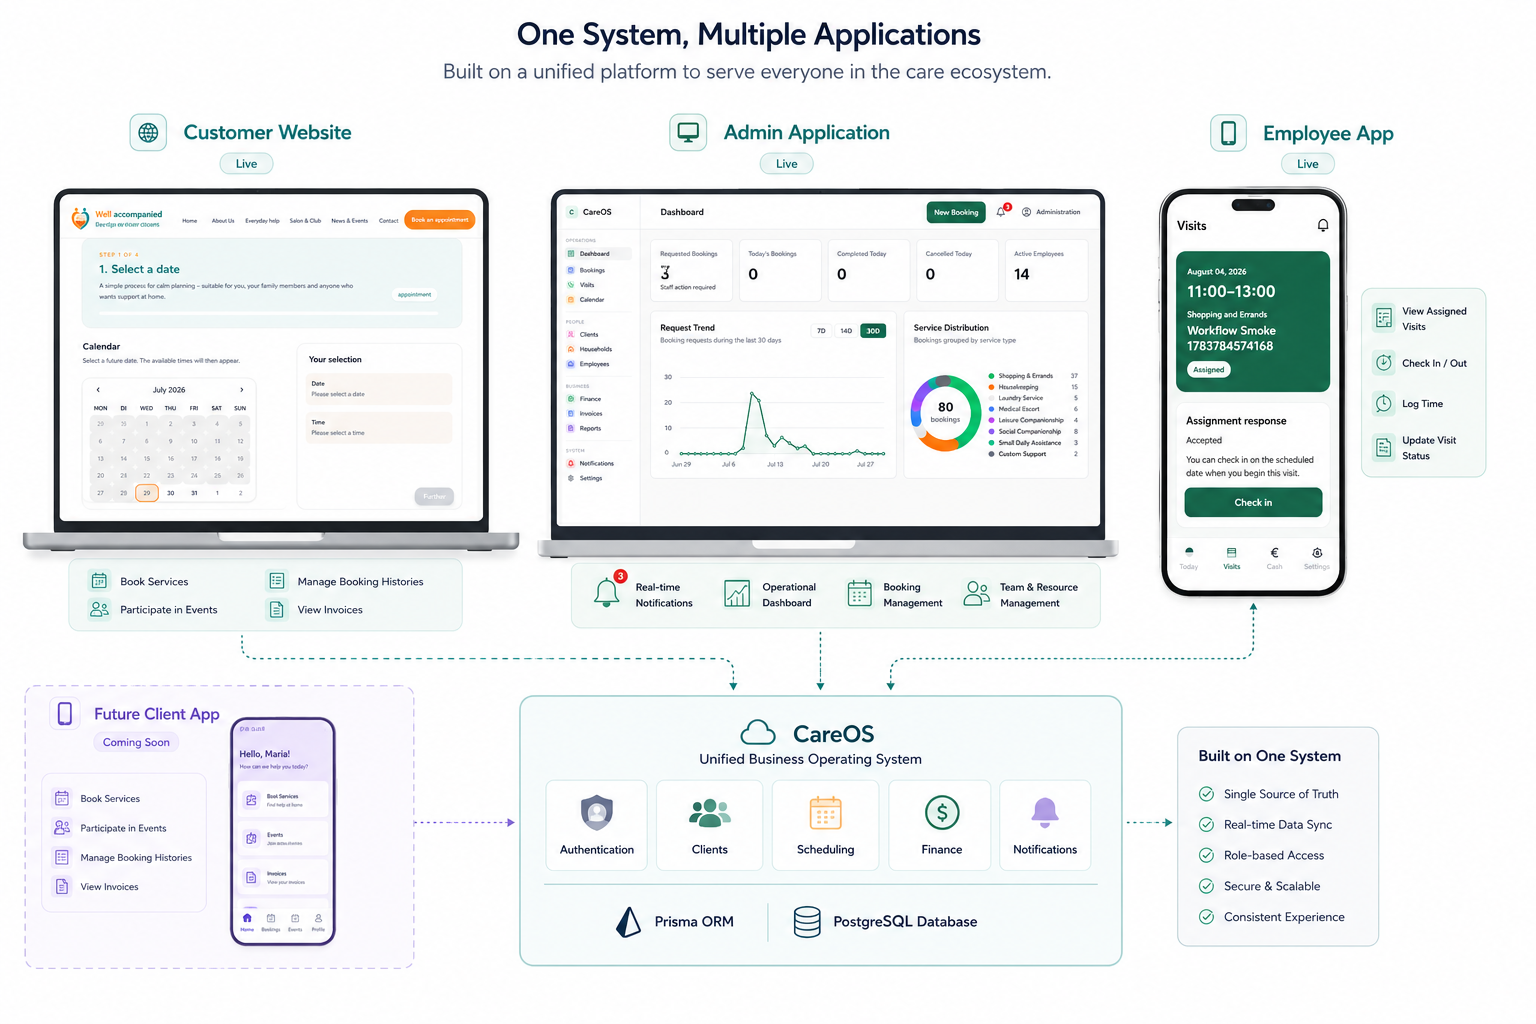
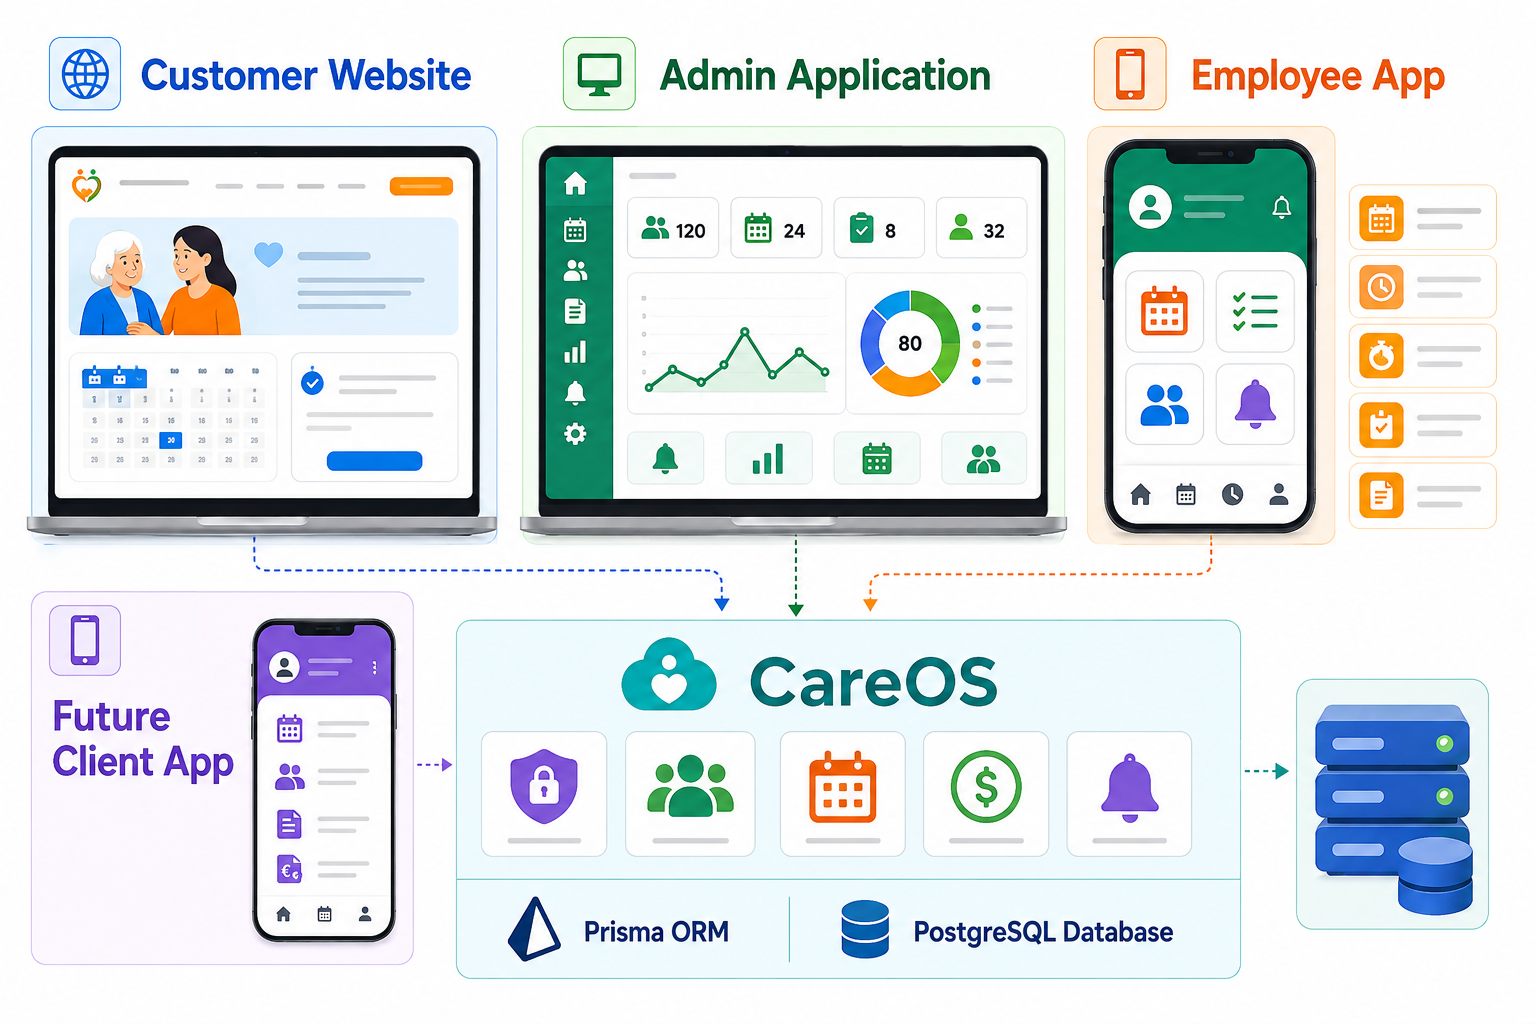
Refresh CareOS/Engineering slideshow diagrams, fix picture/text overflow
- Replace Problem, Analysis, Workflow, Architecture, Database, and
  Applications slide images in the CareOS deck with updated diagrams
- Replace Introduction, Model, Persistence, Flow, Services, and API
  slide images in the Engineering deck, updating alt text to match
  each diagram's actual content
- Fix the picture-overlapping-text bug generally instead of only on
  the Introduction slide: cap every intro-slide's grid row to the
  stage height and let the copy column scroll internally, so this
  can't recur on short viewports regardless of width or which slide

Changed region(s): [[0.0, 0.0, 0.9688, 0.9688]]

diff --git a/src/components/work/EngineeringSlideshow.tsx b/src/components/work/EngineeringSlideshow.tsx
@@ -113,7 +113,7 @@ const slides: readonly Slide[] = [
 function BackendVisual() {
   return (
     <img
-      alt="Backend layers: API Layer (REST API, routes, controllers), Application Layer (business services, transactions, business rules), Persistence Layer (Prisma ORM, query execution), and PostgreSQL (relational model, indexes) — with a Cross-Cutting Concerns ribbon (Authentication, Authorization, Validation, Tenant Isolation) running alongside the API, Application, and Persistence layers"
+      alt="Backend layers: API Layer (REST API, routes, controllers), Application Layer (business services, transactions, business rules), Persistence Layer (Prisma ORM, query execution), and PostgreSQL (relational model, indexes) — with a Cross-Cutting Concerns panel (Authentication, Authorization, Validation, Tenant Isolation) alongside the pipeline"
       className="careos-slide-architecture-image"
       src="/work/image25.png"
     />
@@ -123,7 +123,7 @@ function BackendVisual() {
 function DomainsVisual() {
   return (
     <img
-      alt="Conceptual capability areas, an analytical view of the business: Identity (User, Role, UserRole), Customer (Clients, Households, Companies, PreferredEmployee), Operations (Bookings, Assignments, Visits, BookingItem), Workforce (Employees, Availability, EmployeeSkill, TimeEntry), Finance (Invoices, Payments, PayrollPeriod, Receipts), Reporting (reads from every area — no dedicated table), and Platform Services (Documents, Notifications, Audit Logs, Sequences). Summary: 7 conceptual areas organise the business by capability, 37 Prisma models make up the flat data model in schema.prisma, and 17 enums as native PostgreSQL enum types"
+      alt="Conceptual capability areas, an analytical view of the business: Identity (User, Role), Customer (Clients, Households), Operations (Bookings, Assignments), Workforce (Employees, Availability), Finance (Invoices, Payments), Reporting (reads from every area), and Platform Services (Documents, Notifications). Summary: 7 conceptual areas organise the business by capability, 37 Prisma models make up the flat data model in schema.prisma, 17 enums as native PostgreSQL enum types, and 25 migrations"
       className="careos-slide-architecture-image"
       src="/work/model.png"
     />
@@ -183,7 +183,7 @@ function RelationshipsVisual() {
 function ServicesVisual() {
   return (
     <img
-      alt="21 service modules implementing core business logic, across 24 TypeScript files (including 3 utility helper modules), making up about 75% of the codebase, shared by all APIs, with centralised business rules and transactions. Modules grouped by area: Authentication (auth.service.ts, credential.service.ts, me.service.ts, admin-auth.service.ts, admin-bootstrap.service.ts), Customer (client.service.ts, household.service.ts), Booking (booking.service.ts), Employee (employee.service.ts, employee-assignment.service.ts), Visit (visit.service.ts, visit-completion.service.ts, employee-visit.service.ts), Billing (billing.service.ts, employee-cash.service.ts, employee-closeout.service.ts), Payroll (payroll.service.ts), Notification (notification.service.ts), Reports (reports.service.ts), Service Catalog (service.service.ts), and Utilities/Helpers (assignment-lifecycle.ts, operational-time.ts, visit-status.ts)"
+      alt="21 service modules across 24 TypeScript files, about 75% of the codebase, shared by all APIs with consistent rules. Modules grouped by area: Authentication (auth.service.ts, credential.service.ts), Customer (client.service.ts, household.service.ts), Booking (booking.service.ts), Employee (employee.service.ts, employee-assignment.service.ts), Visit (visit.service.ts, visit-completion.service.ts), Billing (billing.service.ts, employee-cash.service.ts), Payroll (payroll.service.ts), Notification (notification.service.ts), Reports (reports.service.ts), Service Catalog (service.service.ts), and Utilities/Helpers (assignment-lifecycle.ts, operational-time.ts)"
       className="careos-slide-architecture-image"
       src="/work/services.png"
     />
@@ -193,7 +193,7 @@ function ServicesVisual() {
 function ServiceLayerVisual() {
   return (
     <img
-      alt="Request flow architecture: Cross-Cutting Concerns (JWT Authentication, Authorization, Zod Validation, Tenant Context via AsyncLocalStorage) wrap the REST API Layer (Routes to Controllers), which calls the Application Services Layer (21 service modules handling business rules, orchestration, transactions, and domain logic), which calls the Prisma ORM Layer (type-safe client, tenant-aware queries, serializable transactions, automatic retry), which reaches the Database Layer (PostgreSQL on Supabase, 37 models). Example booking flow: Client submits booking form, POST /bookings hits the API, JWT and role are checked, the Zod-validated payload is passed to the Booking Service which checks availability and calculates pricing, a serializable transaction creates the Household, Client, Booking, Booking Items, and Status History, the transaction commits, and a success response is returned. Outcomes: consistent and reliable, tenant-isolated data, atomic operations (ACID), unified logic across all applications"
+      alt="Example: booking flow. 1) Client (website/app) — user submits booking form. 2) POST /bookings — request sent to the API endpoint. 3) Authentication & Authorization — JWT token validated, role and permission checked. 4) Validation (Zod) — request payload validated, invalid data rejected. 5) Booking Service — business rules executed, availability checked, pricing calculated. 6) Database transaction (start) — a serializable transaction creates the Household, Client, Booking, Booking Item(s), and Status History. 7) Transaction commit — all operations committed. 8) Response — success response returned to the client"
       className="careos-slide-architecture-image"
       src="/work/flow.png"
     />

diff --git a/src/app/routes.css b/src/app/routes.css
@@ -2268,6 +2268,7 @@ p, h1, h2, h3 { margin-top: 0; }
   z-index: 0;
   display: grid;
   grid-template-columns: minmax(320px, 0.8fr) minmax(0, 1.2fr);
+  grid-template-rows: minmax(0, 1fr);
   min-height: 690px;
 }
 
@@ -2296,19 +2297,15 @@ p, h1, h2, h3 { margin-top: 0; }
   max-height: 480px;
 }
 
-/* The backend slide's copy (title + message + 3 long points) can be taller
-   than the deck's fixed 690px stage. Without this, the grid row grows to
-   fit that text, pulling the vertically-centered picture down into it so
-   the two visually overlap. Cap the row to the stage height and let the
-   copy column scroll internally instead. */
-@media (min-width: 901px) {
-  .careos-intro-slide--cover {
-    grid-template-rows: minmax(0, 1fr);
-  }
-  .careos-intro-slide--cover .careos-intro-slide__copy {
-    justify-content: flex-start;
-    overflow-y: auto;
-  }
+/* The backend slide's copy (title + message + 3 long points) is the
+   longest in the deck and most likely to overflow the stage height at
+   short viewports. .careos-intro-slide__copy already scrolls internally
+   (grid-template-rows/overflow-y on the base rules) rather than growing
+   the row and pulling the picture into the text — but centered content
+   that overflows a scroll container clips its own start, so pin this
+   slide's copy to the top instead. */
+.careos-intro-slide--cover .careos-intro-slide__copy {
+  justify-content: flex-start;
 }
 
 .careos-intro-slide__visual--vision {
@@ -2318,9 +2315,11 @@ p, h1, h2, h3 { margin-top: 0; }
 
 .careos-intro-slide__copy {
   display: flex;
+  min-height: 0;
   padding: clamp(1.8rem, 3.5vw, 3.4rem);
   flex-direction: column;
   justify-content: center;
+  overflow-y: auto;
   border-right: 1px solid var(--careos-line);
 }
 

diff --git a/src/components/work/CareOSSlideshow.tsx b/src/components/work/CareOSSlideshow.tsx
@@ -214,7 +214,7 @@ function ProblemVisual() {
   return (
     <div className="careos-slide-problem-visual">
       <img
-        alt="Care organisation today: too many disconnected tools across phone calls, WhatsApp, email, spreadsheets, paper forms and more, causing information silos and low visibility"
+        alt="Overwhelmed office staff surrounded by disconnected tools — phone calls, WhatsApp, email, spreadsheets, calendars, paper stacks and warning signs — with tangled arrows showing information flowing between them without a shared system"
         className="careos-slide-problem-image"
         src="/work/problem-overview.png"
       />
@@ -269,7 +269,7 @@ function DatabaseVisual() {
 function ApplicationsVisual() {
   return (
     <img
-      alt="One system, multiple applications: Customer Website, Admin Application and Employee App all built on the CareOS unified business operating system, backed by Prisma ORM and PostgreSQL"
+      alt="One system, multiple applications: Customer Website, Admin Application, Employee App and a future Client App all built on the CareOS unified business operating system, backed by Prisma ORM and PostgreSQL"
       className="careos-slide-problem-image"
       src="/work/applications-overview.png"
     />
